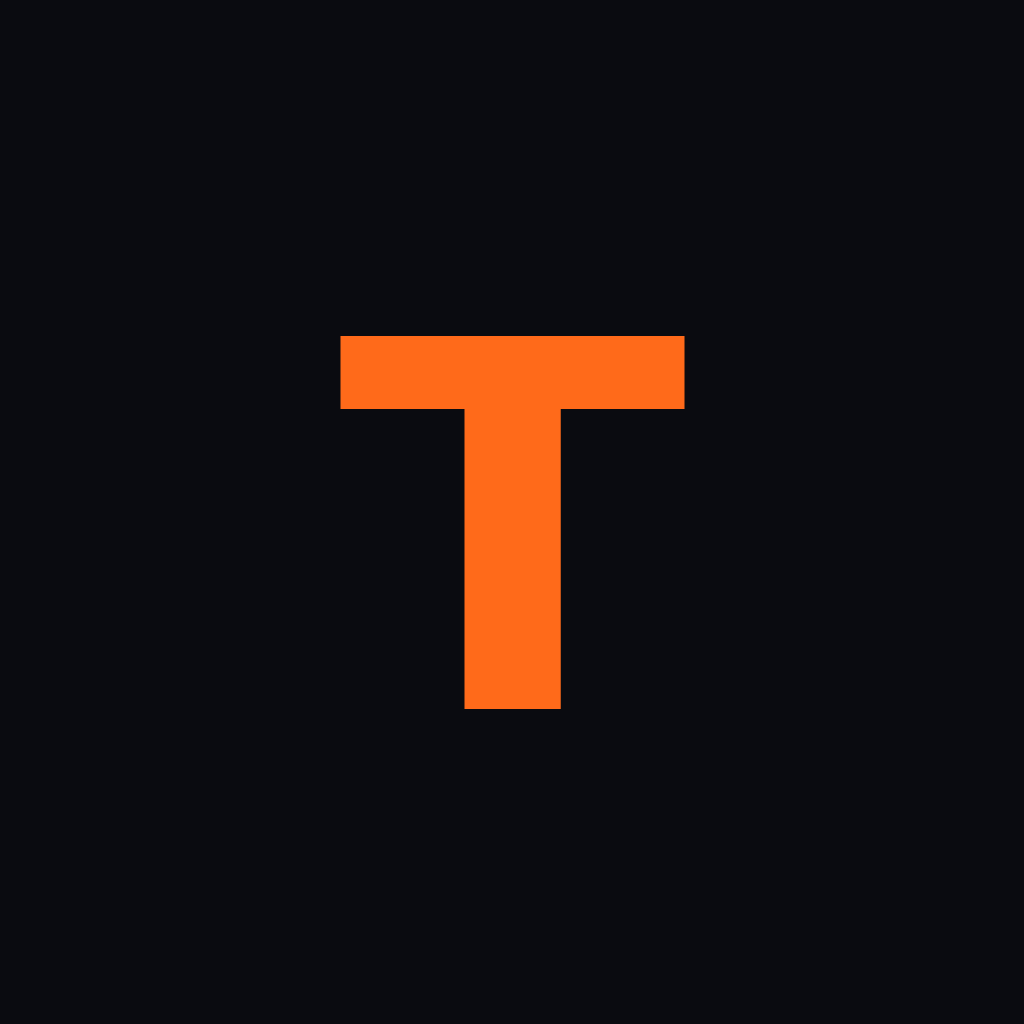
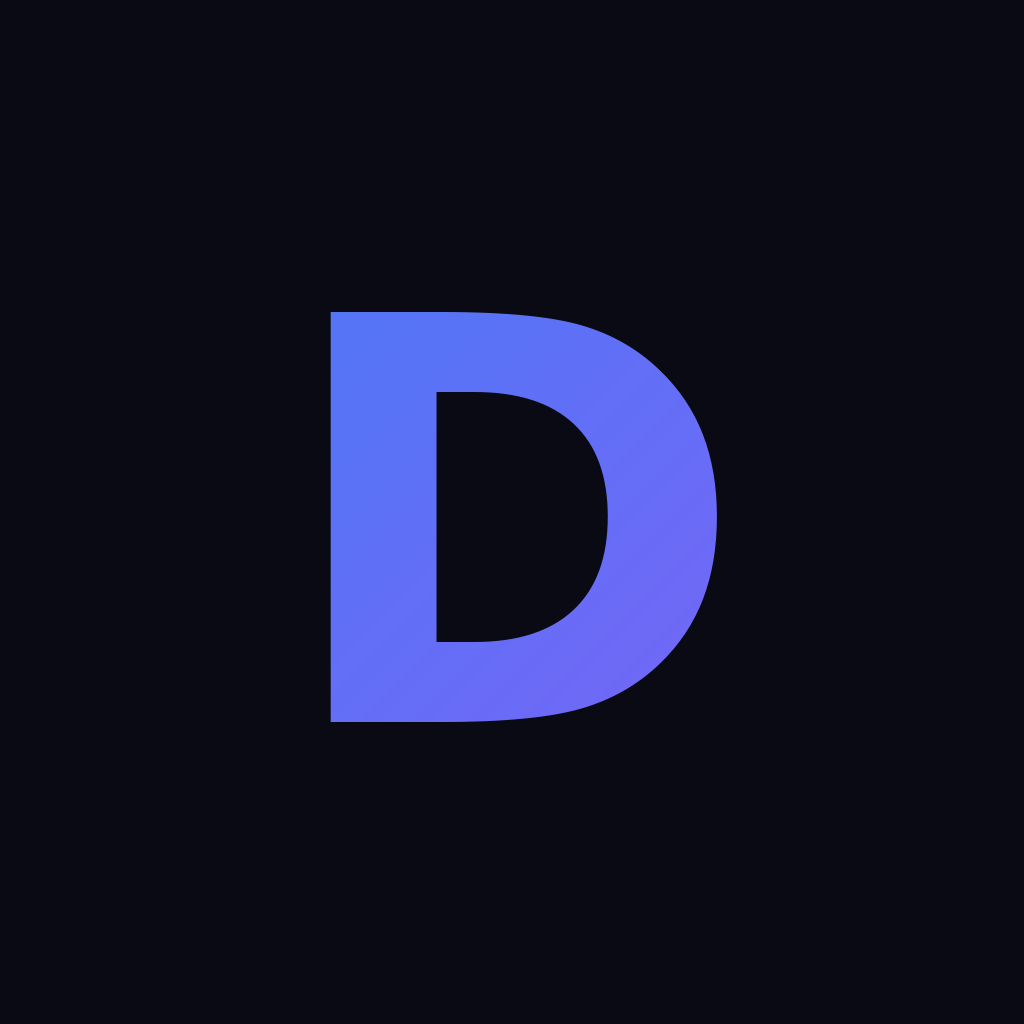
DE PELOS

Changed region(s): [[0.3125, 0.2812, 0.7188, 0.7188]]

diff --git a/src/styles/blim.css b/src/styles/blim.css
@@ -1,21 +1,22 @@
 ion-content { --background: var(--blim-bg); }
 ion-toolbar { --border-width: 0; }
 .blim-logo { font-weight: 800; font-size: 18px; letter-spacing: .5px; padding-left: 16px; color: var(--blim-text); }
-.blim-logo span { color: var(--blim-accent); }
-.blim-tabs { border-top: 1px solid #1a1c28; }
+.blim-logo .g { background: var(--blim-grad); -webkit-background-clip: text; background-clip: text; color: transparent; }
+.blim-logo em { font-style: normal; font-size: 12px; margin-left: 5px; padding: 2px 7px; border-radius: 4px; background: var(--blim-grad); color: #fff; vertical-align: middle; }
+.blim-tabs { border-top: 1px solid #1c1c34; }
 .blim-tabs ion-tab-button { font-size: 11px; }
 
 /* Hero */
 .hero { position: relative; height: min(62vh, 460px); display: flex; align-items: flex-end; overflow: hidden; }
 .hero-bg { position: absolute; inset: 0; background-size: cover; background-position: center; animation: heroIn .7s ease both; }
-.hero::after { content: ''; position: absolute; inset: 0; background: linear-gradient(to top, var(--blim-bg) 4%, rgba(10,11,16,.35) 55%, rgba(10,11,16,.15)); }
+.hero::after { content: ''; position: absolute; inset: 0; background: linear-gradient(to top, var(--blim-bg) 4%, rgba(10,10,20,.35) 55%, rgba(10,10,20,.15)); }
 .hero-body { position: relative; z-index: 1; padding: 0 16px 20px; width: 100%; }
 .hero h1 { margin: 0 0 6px; font-size: clamp(26px, 7vw, 40px); font-weight: 800; line-height: 1.05; }
 .hero-meta { color: var(--blim-muted); font-size: 13px; margin-bottom: 14px; }
 .hero-actions { display: flex; gap: 10px; }
 .btn { border: 0; border-radius: 4px; padding: 11px 18px; font: 600 14px var(--ion-font-family); cursor: pointer; transition: transform .15s ease, opacity .15s; }
 .btn:active { transform: scale(.96); }
-.btn-primary { background: var(--blim-accent); color: #fff; }
+.btn-primary { background: var(--blim-grad); color: #fff; }
 .btn-ghost { background: rgba(255,255,255,.14); color: #fff; }
 @keyframes heroIn { from { opacity: 0; transform: scale(1.04); } to { opacity: 1; transform: none; } }
 
@@ -37,17 +38,17 @@ ion-toolbar { --border-width: 0; }
 /* Filtros */
 .chips { display: flex; gap: 8px; overflow-x: auto; padding: 8px 16px; scrollbar-width: none; }
 .chips::-webkit-scrollbar { display: none; }
-.chip { flex: none; border: 1px solid #2a2d40; background: transparent; color: var(--blim-muted); border-radius: 999px; padding: 7px 14px; font: 600 12px var(--ion-font-family); transition: all .2s; }
-.chip.on { background: var(--blim-accent); border-color: var(--blim-accent); color: #fff; }
+.chip { flex: none; border: 1px solid #2c2e50; background: transparent; color: var(--blim-muted); border-radius: 999px; padding: 7px 14px; font: 600 12px var(--ion-font-family); transition: all .2s; }
+.chip.on { background: var(--blim-grad); border-color: transparent; color: #fff; }
 .selects { display: flex; gap: 10px; padding: 0 16px; }
-.selects select { flex: 1; background: var(--blim-surface); color: var(--blim-text); border: 1px solid #2a2d40; border-radius: 6px; padding: 10px; font: 500 13px var(--ion-font-family); }
+.selects select { flex: 1; background: var(--blim-surface); color: var(--blim-text); border: 1px solid #2c2e50; border-radius: 6px; padding: 10px; font: 500 13px var(--ion-font-family); }
 .count { color: var(--blim-muted); font-size: 12px; padding: 10px 16px 0; }
 .empty { color: var(--blim-muted); text-align: center; padding: 48px 24px; font-size: 14px; }
 ion-searchbar { --background: var(--blim-surface); --color: var(--blim-text); --placeholder-color: var(--blim-muted); --icon-color: var(--blim-muted); padding: 8px 12px; }
 
 /* Ficha */
 .detail-top { position: relative; height: 300px; background-size: cover; background-position: center; }
-.detail-top::after { content: ''; position: absolute; inset: 0; background: linear-gradient(to top, var(--blim-bg), rgba(10,11,16,.2)); }
+.detail-top::after { content: ''; position: absolute; inset: 0; background: linear-gradient(to top, var(--blim-bg), rgba(10,10,20,.2)); }
 .detail-body { padding: 0 16px 32px; margin-top: -60px; position: relative; z-index: 1; animation: up .35s ease both; }
 .detail-body h1 { font-size: 28px; font-weight: 800; margin: 0 0 6px; }
 .detail-body p { line-height: 1.55; color: #c9ccd8; font-size: 14px; max-width: 60ch; }

diff --git a/src/styles/intro.css b/src/styles/intro.css
@@ -1,0 +1,15 @@
+.intro { position: fixed; inset: 0; z-index: 9999; background: #0a0a14; display: flex; flex-direction: column; align-items: center; justify-content: center; gap: 22px; transition: opacity .7s ease; }
+.intro.out { opacity: 0; pointer-events: none; }
+.intro-glow { position: absolute; width: 320px; height: 320px; border-radius: 50%; background: radial-gradient(circle, rgba(139,92,246,.45), rgba(59,130,246,.18) 45%, transparent 70%); animation: glow 2.4s ease-in-out infinite; }
+.intro-logo { position: relative; display: flex; align-items: center; font-weight: 800; font-size: clamp(54px, 18vw, 96px); letter-spacing: 2px; }
+.intro-logo span { opacity: 0; transform: translateY(30px) scale(.7); filter: blur(8px); animation: letter .7s cubic-bezier(.2,.9,.3,1.2) forwards; text-shadow: 0 0 28px currentColor; }
+.intro-logo span:nth-child(1) { color: #3b82f6; }
+.intro-logo span:nth-child(2) { color: #5f7bf6; }
+.intro-logo span:nth-child(3) { color: #7a6ff6; }
+.intro-logo span:nth-child(4) { color: #8b5cf6; }
+.intro-logo b { margin-left: 12px; font-size: .38em; padding: 4px 12px; border-radius: 8px; color: #fff; background: linear-gradient(135deg, #3b82f6, #8b5cf6); opacity: 0; transform: scale(.3) rotate(-12deg); animation: pop .6s cubic-bezier(.2,.9,.3,1.4) 1s forwards; box-shadow: 0 0 24px rgba(139,92,246,.6); }
+.intro-line { height: 3px; width: 0; border-radius: 3px; background: linear-gradient(90deg, #3b82f6, #8b5cf6); animation: line 1s ease 1.3s forwards; }
+@keyframes letter { to { opacity: 1; transform: none; filter: blur(0); } }
+@keyframes pop { to { opacity: 1; transform: none; } }
+@keyframes line { to { width: 180px; } }
+@keyframes glow { 0%, 100% { transform: scale(.9); opacity: .7; } 50% { transform: scale(1.15); opacity: 1; } }

diff --git a/src/App.jsx b/src/App.jsx
@@ -1,4 +1,4 @@
-import { useEffect } from 'react';
+import { useCallback, useEffect, useState } from 'react';
 import { IonApp, IonRouterOutlet, IonTabs, IonTabBar, IonTabButton, IonIcon, IonLabel, setupIonicReact, useIonRouter } from '@ionic/react';
 import { IonReactRouter } from '@ionic/react-router';
 import { Redirect, Route } from 'react-router-dom';
@@ -13,6 +13,7 @@ import Catalog from './pages/Catalog';
 import Search from './pages/Search';
 import Favorites from './pages/Favorites';
 import Detail from './pages/Detail';
+import SplashIntro from './components/SplashIntro';
 
 setupIonicReact({ mode: 'md' });
 
@@ -21,7 +22,7 @@ function Shell() {
   useEffect(() => {
     if (!Capacitor.isNativePlatform()) return;
     StatusBar.setStyle({ style: Style.Dark }).catch(() => {});
-    StatusBar.setBackgroundColor({ color: '#0a0b10' }).catch(() => {});
+    StatusBar.setBackgroundColor({ color: '#0a0a14' }).catch(() => {});
     SplashScreen.hide().catch(() => {});
     const sub = CapApp.addListener('backButton', () => {
       if (router.canGoBack()) router.goBack(); else CapApp.exitApp();
@@ -50,8 +51,11 @@ function Shell() {
 }
 
 export default function App() {
+  const [intro, setIntro] = useState(true);
+  const done = useCallback(() => setIntro(false), []);
   return (
     <IonApp>
+      {intro && <SplashIntro onDone={done} />}
       <FavoritesProvider>
         <IonReactRouter><Shell /></IonReactRouter>
       </FavoritesProvider>

diff --git a/src/theme/variables.css b/src/theme/variables.css
@@ -1,16 +1,18 @@
 :root {
-  --blim-bg: #0a0b10;
-  --blim-surface: #151722;
-  --blim-surface-2: #1d2030;
+  --blim-bg: #0a0a14;
+  --blim-surface: #14152a;
+  --blim-surface-2: #1e2040;
   --blim-text: #f2f3f7;
   --blim-muted: #8b90a3;
-  --blim-accent: #ff6a1a;
+  --blim-accent: #3b82f6;
+  --blim-purple: #8b5cf6;
+  --blim-grad: linear-gradient(135deg, #3b82f6, #8b5cf6);
   --ion-background-color: var(--blim-bg);
   --ion-text-color: var(--blim-text);
   --ion-font-family: 'Montserrat', 'Roboto', 'Segoe UI', sans-serif;
   --ion-color-primary: var(--blim-accent);
   --ion-toolbar-background: var(--blim-bg);
-  --ion-tab-bar-background: #0d0e15;
+  --ion-tab-bar-background: #0c0c1a;
   --ion-tab-bar-color: var(--blim-muted);
-  --ion-tab-bar-color-selected: var(--blim-accent);
+  --ion-tab-bar-color-selected: var(--blim-purple);
 }

diff --git a/src/components/SplashIntro.jsx b/src/components/SplashIntro.jsx
@@ -1,0 +1,20 @@
+import { useEffect, useState } from 'react';
+
+export default function SplashIntro({ onDone }) {
+  const [out, setOut] = useState(false);
+  useEffect(() => {
+    const a = setTimeout(() => setOut(true), 2800);
+    const b = setTimeout(onDone, 3500);
+    return () => { clearTimeout(a); clearTimeout(b); };
+  }, [onDone]);
+  return (
+    <div className={`intro ${out ? 'out' : ''}`}>
+      <div className="intro-glow" />
+      <div className="intro-logo">
+        {'DLIM'.split('').map((ch, i) => <span key={i} style={{ animationDelay: `${0.3 + i * 0.14}s` }}>{ch}</span>)}
+        <b>TV</b>
+      </div>
+      <div className="intro-line" />
+    </div>
+  );
+}

diff --git a/src/components/TopBar.jsx b/src/components/TopBar.jsx
@@ -3,7 +3,7 @@ import { IonHeader, IonToolbar } from '@ionic/react';
 export default function TopBar() {
   return (
     <IonHeader className="ion-no-border">
-      <IonToolbar><div className="blim-logo">TELEVISA<span>.</span>CATÁLOGO</div></IonToolbar>
+      <IonToolbar><div className="blim-logo"><span className="g">DLIM</span><em>TV</em></div></IonToolbar>
     </IonHeader>
   );
 }

diff --git a/index.html b/index.html
@@ -2,9 +2,9 @@
 <html lang="es">
 <head>
   <meta charset="utf-8" />
-  <title>Televisa Catálogo 2000-2014</title>
+  <title>Dlim TV</title>
   <meta name="viewport" content="width=device-width, initial-scale=1.0, viewport-fit=cover" />
-  <meta name="theme-color" content="#0a0b10" />
+  <meta name="theme-color" content="#0a0a14" />
 </head>
 <body>
   <div id="root"></div>

diff --git a/src/main.jsx b/src/main.jsx
@@ -9,6 +9,7 @@ import '@ionic/react/css/flex-utils.css';
 import '@ionic/react/css/display.css';
 import './theme/variables.css';
 import './styles/blim.css';
+import './styles/intro.css';
 import App from './App';
 
 createRoot(document.getElementById('root')).render(<React.StrictMode><App /></React.StrictMode>);

diff --git a/README.md b/README.md
@@ -1,6 +1,6 @@
-# Televisa Catálogo 2000-2014
+# Dlim TV
 
-App Android de catálogo de producciones de Televisa (2000-2014) con estilo de streaming oscuro (referencia: Blim TV).
+Dlim TV: app Android de catálogo de producciones de Televisa (2000-2014) con estilo de streaming oscuro (referencia: Blim TV).
 **Ionic React + Capacitor** (Cordova no se usa). Favoritos con `@capacitor/preferences`.
 
 ## Termux (Android)
